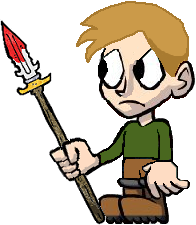
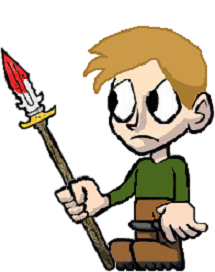
added 5th tribute, made sure they don't repeat

diff --git a/main.js b/main.js
@@ -1,29 +1,35 @@
 let the_number = null;
-let lives = 1;
+let lives = 5;
 let tributes = [
     {
         'background': 'url("images/cato.png")',
-        'width': '180px',
-        'height': '250px',
+        'width': '215px',
+        'height': '273px',
         'bottom': '124px'
     },
     {
         'background': 'url("images/clove.png")',
-        'width': '169px',
-        'height': '210px',
-        'bottom': '126px'
+        'width': '215px',
+        'height': '273px',
+        'bottom': '124px'
     },
     {
         'background': 'url("images/glimmer.png")',
-        'width': '145px',
-        'height': '210px',
-        'bottom': '126px'
+        'width': '215px',
+        'height': '273px',
+        'bottom': '124px'
     },
     {
         'background': 'url("images/marvel.png")',
-        'width': '195px',
-        'height': '225px',
-        'bottom': '125px'
+        'width': '215px',
+        'height': '273px',
+        'bottom': '124px'
+    },
+    {
+        'background': 'url("images/foxface.png")',
+        'width': '215px',
+        'height': '273px',
+        'bottom': '124px'
     }
 ];
 
@@ -40,6 +46,38 @@ $(document).ready(function(){
 
     $(".play").click(function try_again(){
         lives = 5;
+        tributes = [
+            {
+                'background': 'url("images/cato.png")',
+                'width': '215px',
+                'height': '273px',
+                'bottom': '124px'
+            },
+            {
+                'background': 'url("images/clove.png")',
+                'width': '215px',
+                'height': '273px',
+                'bottom': '124px'
+            },
+            {
+                'background': 'url("images/glimmer.png")',
+                'width': '215px',
+                'height': '273px',
+                'bottom': '124px'
+            },
+            {
+                'background': 'url("images/marvel.png")',
+                'width': '215px',
+                'height': '273px',
+                'bottom': '124px'
+            },
+            {
+                'background': 'url("images/foxface.png")',
+                'width': '215px',
+                'height': '273px',
+                'bottom': '124px'
+            }
+        ];
         pick_number();
         display_hearts();
         hide_input();
@@ -47,7 +85,9 @@ $(document).ready(function(){
         $("#arrow").css({"visibility": "hidden"});
         $("#you_win").css({"visibility": "hidden"});
         $("#you_lose").css({"visibility": "hidden"});
+        $(".fallen").removeAttr("style");
         $("#game").css({"visibility": "visible"});
+
     });
 
     $(".quit").click(function quit_game(){
@@ -116,7 +156,12 @@ function remove_hearts(){
 
 function tribute_arrives(){
     var elem = document.getElementById("tribute");
-    $("#tribute").css(tributes[Math.floor(Math.random()*4)]);
+    var randomizer = Math.floor(Math.random()*tributes.length);
+    $("#tribute").css(tributes[randomizer]);
+    
+    tributes.splice(randomizer, 1);
+    
+    
     var pos = -1800;
     var timer = setInterval(frame, -100);
     function frame() {
@@ -128,6 +173,7 @@ function tribute_arrives(){
             elem.style.left = -pos + 'px';
         }
     }
+
 }
 
 function show_input(){
@@ -255,7 +301,7 @@ function you_win(){
 function you_lose(){
     $("#you_lose").css({"visibility": "visible"});
     document.getElementById("lose").play();
-    setInterval(hologram, 2500);
+    setInterval(hologram, 1500);
 }
 
 function hologram(){

diff --git a/styles.css b/styles.css
@@ -93,6 +93,7 @@ h2 {
     color: rgb(139, 214, 72);
     visibility: hidden;
     overflow: hidden;
+    z-index: 1;
 }
 
 #guess_div {
@@ -285,24 +286,31 @@ p {
 #you_lose {
     height: 100vh;
     width: 100vw;
-    background-image: url("images/fallen_logo.png");
+ /*   background-image: url("images/fallen_logo.jpeg");*/
     background-color: black;
+/*    background-size: cover;*/
     visibility: hidden;
     position: absolute;
     top: 0;
     left: 0;
+
+    display: flex;
+    flex-direction: row;
+    justify-content: space-around;
+    align-items: center;
 }
 
 .fallen {
-    display: block;
-    margin: 4vh 95% 2vh 5%;
-    height: 70vh;
+    /*display: block;
+    margin: -45vh auto 0 auto;*/
+    margin-top: -11vh;
+    height: 150vh;
     opacity: 0;
     visibility: hidden;
-    transition: opacity 15s, visibility 15s;
+    transition: opacity 20s, visibility 12s;
 }
 
-button.play, button.quit {
+.play, .quit {
     background: rgb(44, 76, 99);
     box-shadow: inset -0.5vw -0.5vh rgba(24, 44, 66, 0.98);
     color: black;
@@ -318,18 +326,26 @@ button.play, button.quit {
     font-weight: 900;
     cursor: pointer;
     font-family: 'BankGothic', sans-serif;
-    margin: 2vh 2vw;
+/*    margin: 2vh 2vw;*/
 }
 
 .game-over > p {
     color: rgb(44, 76, 99);
 }
 
-.lose_buttons {
+.lose_retry {
+    margin-left: 10vw;
+}
+
+.lose_quit {
+    margin-right: 10vw;
+}
+
+/*.lose_buttons {
     display: flex;
     flex-direction: row;
     justify-content: center;
-}
+}*/
 
 /* -------------- quit -------------- */
 

diff --git a/index.html b/index.html
@@ -66,12 +66,9 @@
 			</div>
 
 			<div id="you_lose">
-				<p>You Lose!</p>
+				<button class="lose_retry play">Retry</button>
 				<img class="fallen" src="images/katniss_fallen.png">
-				<div class="lose_buttons">
-					<button class="play">Retry</button>
-					<button class="quit">Quit</button>
-				</div>	
+				<button class="lose_quit quit">Quit</button>
 			</div>
 
 			<div id="quit">
